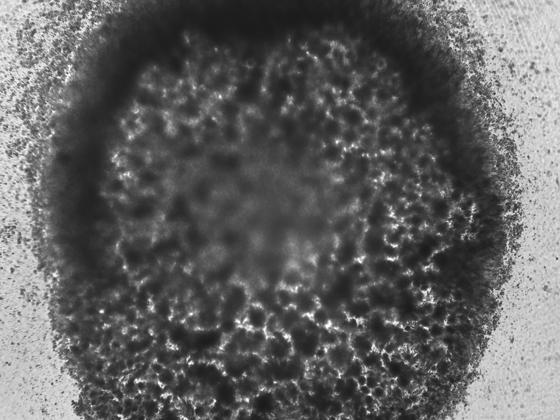
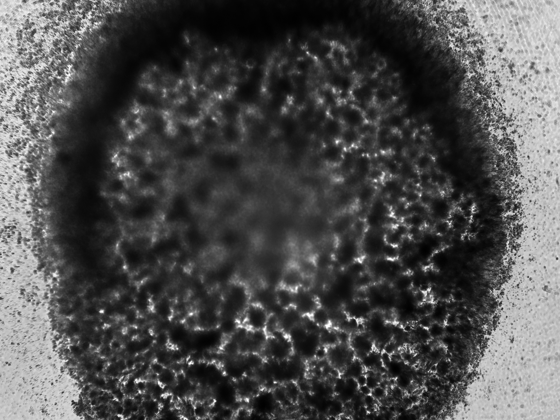
Contrast reflects the (submitted) thesis: revert to min-max Michelson
The thesis is submitted and fixed, so the site must use its contrast definition.
Revert the whole site back to frame_qc's michelson_contrast (Michelson on the
min-max normalised frame): Theme 01 contrast distribution + drift, the 51-frame
scatter, Theme 00 augmentation-coverage contrast, and Theme 01 quality-coverage
(contrast r=+0.05, focus +0.43, frag -0.30 from the canonical fig09 table).
Corpus contrast median back to 0.58.

To keep the shown contrast true to the picture, the real-frame widgets now
DISPLAY each frame min-max normalised to its own range (the same normalisation
the pipeline/thesis figures use), so the visible contrast equals the reported
thesis value; metrics are the canonical frame-QC values.

diff --git a/01_image_intensity_eda/index.html b/01_image_intensity_eda/index.html
@@ -86,4 +86,4 @@ function timecourse(id,d){const el=document.getElementById(id);if(!el)return;
     <a href="../THESIS_CITE_MAP.md">Cite map</a>
     <a href="https://github.com/DjamelZair" target="_blank" rel="noopener">GitHub</a>
   </nav>
-</header><main><a class="back" href="../index.html">&larr; All analysis themes</a><nav class="rq-tabs"><a href="../00_data_inventory/index.html" class="">Theme 00<span class="label">Data construction</span></a><a href="../01_image_intensity_eda/index.html" class="active">Theme 01<span class="label">Image EDA</span></a><a href="../02_segmentation/index.html" class="">Theme 02<span class="label">Segmentation</span></a><a href="../03_simulation_library/index.html" class="">Theme 03<span class="label">Sim library</span></a><a href="../04_separability_identifiability/index.html" class="">Theme 04<span class="label">Identifiability</span></a><a href="../05_drug_realdata/index.html" class="">Theme 05<span class="label">Drug / real data</span></a></nav><section class="bhero"><div class="bg" style="background-image:url('../assets/hero_spheroid_healthy.png')"></div><div class="radial"></div><div class="scrim"></div><div class="inner"><div class="meta"><span>Theme 01</span><span class="dot">&middot;</span><span>Data exploratory analysis</span><span class="dot">&middot;</span><span>Appendix A.1</span></div><h1 class="display">What the <span class="gold">data</span> <span class="it">demands</span>.</h1><p class="lede">The imaging reads size and gross shape robustly, but contrast, focus and fragmentation limit the finer boundary features, the same loss that later caps CPM-parameter identifiability.</p><p class="summary">Brightfield microscopy of patient-derived CLL spheroids is low-contrast, unevenly lit, and frequently fragmented under drug treatment. This analysis characterises what the images <strong>are</strong> (intensity, contrast, focus, illumination and fragmentation), then traces each property to the segmentation, metric and feature choice it drove downstream. The dataset inventory itself, who and how much, now lives in Theme 00.</p></div><div class="cap">Patient-derived CLL spheroid &middot; brightfield &middot; AI-drawn outline</div></section><section class="kpi-strip"><div class="kpi gold"><div class="lbl">Hand-annotated</div><div class="num numeric">51</div><div class="desc">About 0.05% of the corpus, the defining constraint.</div></div><div class="kpi gold"><div class="lbl">Contrast covered by aug.</div><div class="num">~100%</div><div class="desc">Offline augmented set (shared by all models).</div></div><div class="kpi"><div class="lbl">Focus covered by aug.</div><div class="num numeric">~91%</div><div class="desc">Laplacian-variance range spanned by augmentation.</div></div><div class="kpi"><div class="lbl">Real wells out-of-library</div><div class="num numeric">~90%</div><div class="desc">Why the thesis reports relative shifts, not absolutes.</div></div></section><div class="sec-h"><h2 class="display">First, what a real <span class="it">spheroid</span> looks like</h2><span class="right">actual frames from the corpus</span></div><section class="card"><p style="margin-bottom:1rem">Before the distributions, the concrete thing: real brightfield frames from the corpus, cropped around the spheroid, with the U-Net outline in gold. Click through a cohesive spheroid, one fragmenting under drug, and the hard cases (blurred, low-contrast, unevenly lit) that the rest of this page quantifies.</p><div class="iact" data-widget="examples" data-json="../assets/data/theme1_realframes.json"></div><div class="verdict">Every distribution below is a summary over thousands of frames like these. This is what the segmenter and the feature extraction actually operate on.<span class="small">The concrete object behind the numbers</span></div></section><div class="sec-h"><h2 class="display">A. What does the raw <span class="it">signal</span> look like?</h2><span class="right">why a learned segmenter, not thresholding</span></div><section class="card"><div class="card-h"><span class="ttl">Contrast vs fragment count</span><span class="sub">51 annotated frames</span></div><div class="chart-host" style="height:380px"><canvas id="t1_contrast"></canvas></div><p style="margin-top:.9rem;font-size:.94rem;line-height:1.6;color:var(--paper);opacity:.92">Contrast spans roughly 0.46 to 1.0 across the annotated set, and higher contrast couples to more fragments, because separating fragments exposes bright background between dark material.</p><div class="verdict">The wide, regime-dependent contrast (and the fragment-debris intensity overlap it creates) is why a single global threshold cannot work and a learned segmenter is needed, with contrast-conditional preprocessing in the classical baseline.<span class="small">Decision: learned segmenter + contrast-conditional preprocessing</span></div></section><script>scatter("t1_contrast",{"points": [{"x": 0.4613, "y": 14}, {"x": 0.5789, "y": 11}, {"x": 0.4956, "y": 3}, {"x": 0.4613, "y": 10}, {"x": 0.5839, "y": 8}, {"x": 0.5502, "y": 19}, {"x": 0.4697, "y": 1}, {"x": 0.453, "y": 11}, {"x": 0.4127, "y": 8}, {"x": 0.5269, "y": 1}, {"x": 0.5224, "y": 5}, {"x": 0.5224, "y": 2}, {"x": 0.5179, "y": 19}, {"x": 0.5789, "y": 11}, {"x": 0.5224, "y": 22}, {"x": 0.6346, "y": 2}, {"x": 0.4286, "y": 9}, {"x": 0.5361, "y": 1}, {"x": 0.5408, "y": 7}, {"x": 0.4655, "y": 1}, {"x": 0.6384, "y": 1}, {"x": 0.6162, "y": 1}, {"x": 0.6304, "y": 1}, {"x": 0.5957, "y": 3}, {"x": 0.6567, "y": 1}, {"x": 0.637, "y": 1}, {"x": 0.593, "y": 6}, {"x": 0.5709, "y": 14}, {"x": 0.6642, "y": 1}, {"x": 0.6458, "y": 1}, {"x": 0.6173, "y": 1}, {"x": 0.6564, "y": 14}, {"x": 0.6957, "y": 1}, {"x": 0.6451, "y": 8}, {"x": 0.7175, "y": 1}, {"x": 0.6271, "y": 23}, {"x": 0.954, "y": 40}, {"x": 0.9767, "y": 37}, {"x": 0.9767, "y": 19}, {"x": 0.9767, "y": 5}, {"x": 1.0, "y": 26}, {"x": 1.0, "y": 45}, {"x": 0.7993, "y": 1}, {"x": 0.9691, "y": 14}, {"x": 0.7958, "y": 7}, {"x": 0.9101, "y": 20}, {"x": 0.7708, "y": 43}, {"x": 0.6505, "y": 9}, {"x": 0.8545, "y": 2}, {"x": 1.0, "y": 26}, {"x": 0.8809, "y": 20}], "xlabel": "Michelson contrast", "ylabel": "fragments per image"});</script><section class="card"><div class="card-h"><span class="ttl">Focus spread across frames</span><span class="sub">Laplacian variance, log scale</span></div><div class="chart-host" style="height:380px"><canvas id="t1_focus"></canvas></div><p style="margin-top:.9rem;font-size:.94rem;line-height:1.6;color:var(--paper);opacity:.92">Brightfield focus spans about 0.9 orders of magnitude, and background illumination is uneven.</p><div class="verdict">Both inject noise into boundary-derived shape features, the exact perimeter and circularity features the CPM inference relies on, so inversion is restricted to features that survive segmentation noise.<span class="small">Decision: restrict inversion features</span></div></section><script>barV("t1_focus",{"labels": ["-2.0", "-1.9", "-1.8", "-1.7", "-1.7", "-1.6", "-1.5", "-1.4", "-1.4", "-1.3", "-1.2", "-1.1"], "datasets": [{"label": "frames", "data": [8, 3, 4, 2, 4, 5, 6, 4, 8, 4, 1, 2], "color": "#a37432"}], "xlabel": "log10 Laplacian variance (sharper to the right)", "ylabel": "frames", "dec": 0});</script><section class="card"><p style="margin-bottom:1rem">Pixel intensity across the real frames. The filled curve is the spheroid (foreground), the gold line the bright field (background): two overlapping modes. Switch to over-time to see frame brightness drift.</p><div class="iact" data-widget="qcdist" data-json="../assets/data/theme1_qc_intensity.json"></div><div class="verdict">The two intensity modes overlap once debris is present, so a single global threshold cannot separate object from background: a learned segmenter is needed.<span class="small">Decision: learned segmenter</span></div></section><section class="card"><p style="margin-bottom:1rem">Michelson contrast across the corpus, and how it drifts over the imaging time course. Contrast is wide and regime-dependent.</p><div class="iact" data-widget="qcdist" data-json="../assets/data/theme1_qc_contrast.json"></div><div class="verdict">Contrast is wide, regime-dependent and drifting, which is why the classical baseline needs contrast-conditional preprocessing and the production segmenter is learned.<span class="small">Decision: contrast-conditional preprocessing</span></div></section><section class="card"><p style="margin-bottom:1rem">Focus (Laplacian variance) on a log scale: a sharp main cluster and a blurred tail. Two independent focus measures agree, so the spread is real.</p><div class="iact" data-widget="qcdist" data-json="../assets/data/theme1_qc_focus.json"></div><div class="verdict">Out-of-focus frames blur the boundary-derived perimeter and circularity features, reinforcing the restriction of inversion to features that survive segmentation noise.<span class="small">Decision: restrict inversion features</span></div></section><section class="card"><p style="margin-bottom:1rem">Background illumination unevenness (coefficient of variation), and how it worsens over the time course as debris accumulates.</p><div class="iact" data-widget="qcdist" data-json="../assets/data/theme1_qc_illumination.json"></div><div class="verdict">Uneven background biases any intensity-based boundary, another reason the inversion leans on shape features that tolerate illumination drift.<span class="small">Decision: restrict inversion features</span></div></section><div class="sec-h"><h2 class="display">B. What is the object <span class="it">structure</span>?</h2><span class="right">the segmentation criterion: feature preservation</span></div><section class="card"><div class="card-h"><span class="ttl">Components per annotated image</span><span class="sub">how multi-object the masks are</span></div><div class="chart-host" style="height:340px"><canvas id="t1_ncomp"></canvas></div><p style="margin-top:.9rem;font-size:.94rem;line-height:1.6;color:var(--paper);opacity:.92">Most frames are not a single object (median 8 components; about 70% have more than one), and fragment sizes span four orders of magnitude, from the main body down to specks below 100 px.</p><div class="verdict">Standard Dice is dominated by the largest component and is blind to small fragments, so CC-Dice (equal weight per component) is the right metric, and post-processing keeps the largest connected component.<span class="small">Decision: CC-Dice + largest component</span></div></section><script>barV("t1_ncomp",{"labels": ["0", "1", "2", "3", "4", "5", "6", "7", "8", "9", "10", "11", "12", "13", "14", "15", "16", "17", "18", "19", "20", "21", "22", "23", "24", "25", "26", "27", "28", "29", "30", "31", "32", "33", "34", "35", "36", "37", "38", "39", "40"], "datasets": [{"label": "images", "data": [0, 15, 3, 2, 0, 2, 1, 2, 3, 2, 1, 3, 0, 0, 4, 0, 0, 0, 0, 3, 2, 0, 1, 1, 0, 0, 2, 0, 0, 0, 0, 0, 0, 0, 0, 0, 0, 1, 0, 0, 1], "color": "#a37432"}], "xlabel": "connected components in the image", "ylabel": "images", "dec": 0});</script><section class="card"><p style="margin-bottom:1rem">Three views of how fragmented the masks are: the count of connected components per frame, how much of the area the largest component holds, and how fragmentation rises over the time course.</p><div class="iact" data-widget="fragstruct" data-json="../assets/data/theme1_fragstruct.json"></div><div class="verdict">Because masks are multi-object but area-dominated, ordinary Dice would ignore the small fragments, so CC-Dice scores every component, and post-processing keeps the largest one.<span class="small">Decision: CC-Dice + largest component</span></div></section><div class="sec-h"><h2 class="display">C. A glimpse of the drug-response <span class="it">payoff</span></h2><span class="right">preview only &middot; full analysis in Theme 05</span></div><section class="card"><div class="card-h"><span class="ttl">Fragmentation by drug-mechanism class</span><span class="sub">median fragmentation index, classes with n&gt;=30</span></div><div class="chart-host" style="height:380px"><canvas id="t1_frag"></canvas></div><p style="margin-top:.9rem;font-size:.94rem;line-height:1.6;color:var(--paper);opacity:.92">A single teaser: Syk-inhibitor and CXCR4-antagonist wells fragment most; BTK, NF-kB and MALT1 inhibitors sit lowest. Counts are large, unequal and plate-level, so this is read as an association only. The full drug-response analysis, auto-measured trajectories, per-drug inferred shifts and the BCR axis, lives in <a href="../05_drug_realdata/index.html">Theme 05</a>.</p><div class="verdict">Previews the RQ3 drug-response story and shows the most drug-responsive classes are the hardest to segment, which is exactly why the segmenter is chosen on feature preservation rather than pixel overlap.<span class="small">Preview only: full drug panel in Theme 05</span></div></section><script>barH("t1_frag",{"labels": ["Syk i", "CXCR4 ant.", "STAT6 i", "MEKi", "research", "PI3Ki", "JAKi", "BTKi", "NF-kB i", "MALT1i"], "datasets": [{"label": "median fragmentation index", "data": [0.075, 0.0388, 0.0362, 0.0294, 0.0153, 0.0123, 0.0091, 0.0086, 0.0053, 0.0044], "color": "#c8a05c"}], "xlabel": "median fragmentation index", "dec": 3});</script><div class="sec-h"><h2 class="display">D. From image quality to library <span class="it">coverage</span></h2><span class="right">why the thesis reports relative shifts</span></div><section class="card"><p style="margin-bottom:1rem">Each dot is one real control well (n=48). Switch the image-quality metric to see which one predicts how far the well sits from its nearest synthetic spheroid: blur (focus) does, contrast does not, and more-fragmented wells sit slightly closer.</p><div class="iact" data-widget="qualcoverage" data-json="../assets/data/theme1_qualcoverage.json"></div><div class="verdict">Distance rises with blur (focus r=+0.43) but is flat against contrast (r=+0.03); more-fragmented wells sit slightly closer (r=-0.30), since the library's dispersed synthetic morphologies resemble broken spheroids. Either way, image quality shapes coverage, so the inference is reported as relative shifts rather than absolutes.<span class="small">Why relative shifts, not absolutes</span></div></section><section class="card"><div class="card-h"><span class="ttl">Sources (canonical, executable)</span></div><p>This reader consolidates and re-orders the data EDA into the thesis's decision order. Interactive charts are computed from the same local CSVs the notebooks use (<code>imaging_eda/cache/labelled_qc.csv</code>, <code>frame_qc.csv</code>, <code>rq1_segmentation/results/feature_validation/timecourse_full_features.csv</code>); raster panels are the on-brand figures from the thesis figure set. Open the source notebooks for the full code and every panel:</p><p><strong><code>thesis_submission/notebooks/RQ1_segmentation/01_data_eda.ipynb</code></strong> and <strong><code>imaging_eda/imaging_data_eda.ipynb</code></strong>.</p><p>An earlier broad notebook, <code>data/cll_spheroid_eda_complete.ipynb</code>, is catalogued as a referenced orphan in <code>_provenance_notes.md</code>.</p></section><div class="sec-h"><h2 class="display">A tunable <span class="it">quality bar</span></h2><span class="right">interactive, beyond the thesis</span></div><section class="card"><p style="margin-bottom:1rem">The thesis fixes quality thresholds once. Here you pick a quality metric and drag the bar to see exactly how many of the 12,480 frames survive.</p><div class="iact" data-widget="qcthreshold" data-json="../assets/data/theme1_qc_threshold.json"></div><div class="verdict">Turns the fixed QC cutoffs into something you can interrogate across the whole corpus.<span class="small">Beyond the thesis: live QC</span></div></section><div class="sec-h"><h2 class="display">Complete analysis <span class="it">index</span></h2><span class="right">every thesis analysis in this theme</span></div><section class="card"><div class="card-h"><span class="ttl">Each analysis, what it shows, its thesis label, and the result</span></div><div class="tablewrap"><table><thead><tr><th>Analysis</th><th>What it shows</th><th>Thesis label</th><th>Key result / status</th></tr></thead><tbody><tr><td>Full data EDA</td><td>Intensity, contrast, focus, fragmentation over 51 annotated frames</td><td>appendix:data:eda</td><td>Shown interactively above</td></tr></tbody></table></div></section><section class="stack-row"><div class="lbl"><span class="it">Sources</span> &middot; Theme 01</div><div class="stack-chips"><span class="chip gold">01_data_eda.ipynb</span><span class="chip gold">imaging_data_eda.ipynb</span><span class="chip">labelled_qc.csv</span><span class="chip">frame_qc.csv</span><span class="chip">timecourse_full_features.csv</span><span class="chip">Chart.js + scikit-image</span></div></section><section class="big-cta"><h3>Next: <span class="it">choosing the segmenter</span>.</h3><div class="links"><a class="cta primary" href="../02_segmentation/index.html">Theme 02 &middot; Segmentation &rarr;</a><a class="cta" href="../index.html">Back to index</a></div></section><script src="../assets/theme3_interactive.js" defer></script><footer>&copy; 2026 Djamel Zair &middot; Amsterdam &middot; <a href="https://github.com/DjamelZair" target="_blank" rel="noopener">GitHub</a></footer></main></body></html>
+</header><main><a class="back" href="../index.html">&larr; All analysis themes</a><nav class="rq-tabs"><a href="../00_data_inventory/index.html" class="">Theme 00<span class="label">Data construction</span></a><a href="../01_image_intensity_eda/index.html" class="active">Theme 01<span class="label">Image EDA</span></a><a href="../02_segmentation/index.html" class="">Theme 02<span class="label">Segmentation</span></a><a href="../03_simulation_library/index.html" class="">Theme 03<span class="label">Sim library</span></a><a href="../04_separability_identifiability/index.html" class="">Theme 04<span class="label">Identifiability</span></a><a href="../05_drug_realdata/index.html" class="">Theme 05<span class="label">Drug / real data</span></a></nav><section class="bhero"><div class="bg" style="background-image:url('../assets/hero_spheroid_healthy.png')"></div><div class="radial"></div><div class="scrim"></div><div class="inner"><div class="meta"><span>Theme 01</span><span class="dot">&middot;</span><span>Data exploratory analysis</span><span class="dot">&middot;</span><span>Appendix A.1</span></div><h1 class="display">What the <span class="gold">data</span> <span class="it">demands</span>.</h1><p class="lede">The imaging reads size and gross shape robustly, but contrast, focus and fragmentation limit the finer boundary features, the same loss that later caps CPM-parameter identifiability.</p><p class="summary">Brightfield microscopy of patient-derived CLL spheroids is low-contrast, unevenly lit, and frequently fragmented under drug treatment. This analysis characterises what the images <strong>are</strong> (intensity, contrast, focus, illumination and fragmentation), then traces each property to the segmentation, metric and feature choice it drove downstream. The dataset inventory itself, who and how much, now lives in Theme 00.</p></div><div class="cap">Patient-derived CLL spheroid &middot; brightfield &middot; AI-drawn outline</div></section><section class="kpi-strip"><div class="kpi gold"><div class="lbl">Hand-annotated</div><div class="num numeric">51</div><div class="desc">About 0.05% of the corpus, the defining constraint.</div></div><div class="kpi gold"><div class="lbl">Contrast covered by aug.</div><div class="num">~100%</div><div class="desc">Offline augmented set (shared by all models).</div></div><div class="kpi"><div class="lbl">Focus covered by aug.</div><div class="num numeric">~91%</div><div class="desc">Laplacian-variance range spanned by augmentation.</div></div><div class="kpi"><div class="lbl">Real wells out-of-library</div><div class="num numeric">~90%</div><div class="desc">Why the thesis reports relative shifts, not absolutes.</div></div></section><div class="sec-h"><h2 class="display">First, what a real <span class="it">spheroid</span> looks like</h2><span class="right">actual frames from the corpus</span></div><section class="card"><p style="margin-bottom:1rem">Before the distributions, the concrete thing: real brightfield frames from the corpus, cropped around the spheroid, with the U-Net outline in gold. Click through a cohesive spheroid, one fragmenting under drug, and the hard cases (blurred, low-contrast, unevenly lit) that the rest of this page quantifies.</p><div class="iact" data-widget="examples" data-json="../assets/data/theme1_realframes.json"></div><div class="verdict">Every distribution below is a summary over thousands of frames like these. This is what the segmenter and the feature extraction actually operate on.<span class="small">The concrete object behind the numbers</span></div></section><div class="sec-h"><h2 class="display">A. What does the raw <span class="it">signal</span> look like?</h2><span class="right">why a learned segmenter, not thresholding</span></div><section class="card"><div class="card-h"><span class="ttl">Contrast vs fragment count</span><span class="sub">51 annotated frames</span></div><div class="chart-host" style="height:380px"><canvas id="t1_contrast"></canvas></div><p style="margin-top:.9rem;font-size:.94rem;line-height:1.6;color:var(--paper);opacity:.92">Contrast spans roughly 0.46 to 1.0 across the annotated set, and higher contrast couples to more fragments, because separating fragments exposes bright background between dark material.</p><div class="verdict">The wide, regime-dependent contrast (and the fragment-debris intensity overlap it creates) is why a single global threshold cannot work and a learned segmenter is needed, with contrast-conditional preprocessing in the classical baseline.<span class="small">Decision: learned segmenter + contrast-conditional preprocessing</span></div></section><script>scatter("t1_contrast",{"points": [{"x": 0.4835, "y": 14}, {"x": 0.5899, "y": 11}, {"x": 0.5331, "y": 3}, {"x": 0.5314, "y": 10}, {"x": 0.6104, "y": 8}, {"x": 0.5639, "y": 19}, {"x": 0.4837, "y": 1}, {"x": 0.4636, "y": 11}, {"x": 0.4557, "y": 8}, {"x": 0.5714, "y": 1}, {"x": 0.6364, "y": 5}, {"x": 0.5556, "y": 2}, {"x": 0.5241, "y": 19}, {"x": 0.6339, "y": 11}, {"x": 0.5738, "y": 22}, {"x": 0.6781, "y": 2}, {"x": 0.4766, "y": 9}, {"x": 0.6054, "y": 1}, {"x": 0.5719, "y": 7}, {"x": 0.5364, "y": 1}, {"x": 0.6384, "y": 1}, {"x": 0.6162, "y": 1}, {"x": 0.6304, "y": 1}, {"x": 0.5957, "y": 3}, {"x": 0.6567, "y": 1}, {"x": 0.637, "y": 1}, {"x": 0.593, "y": 6}, {"x": 0.5709, "y": 14}, {"x": 0.6642, "y": 1}, {"x": 0.6458, "y": 1}, {"x": 0.6173, "y": 1}, {"x": 0.6564, "y": 14}, {"x": 0.6957, "y": 1}, {"x": 0.6451, "y": 8}, {"x": 0.7175, "y": 1}, {"x": 0.6271, "y": 23}, {"x": 0.954, "y": 40}, {"x": 0.9767, "y": 37}, {"x": 0.9767, "y": 19}, {"x": 0.9767, "y": 5}, {"x": 1.0, "y": 26}, {"x": 1.0, "y": 45}, {"x": 0.7993, "y": 1}, {"x": 0.9691, "y": 14}, {"x": 0.7958, "y": 7}, {"x": 0.9101, "y": 20}, {"x": 0.7708, "y": 43}, {"x": 0.6505, "y": 9}, {"x": 0.8545, "y": 2}, {"x": 1.0, "y": 26}, {"x": 0.8809, "y": 20}], "xlabel": "Michelson contrast", "ylabel": "fragments per image"});</script><section class="card"><div class="card-h"><span class="ttl">Focus spread across frames</span><span class="sub">Laplacian variance, log scale</span></div><div class="chart-host" style="height:380px"><canvas id="t1_focus"></canvas></div><p style="margin-top:.9rem;font-size:.94rem;line-height:1.6;color:var(--paper);opacity:.92">Brightfield focus spans about 0.9 orders of magnitude, and background illumination is uneven.</p><div class="verdict">Both inject noise into boundary-derived shape features, the exact perimeter and circularity features the CPM inference relies on, so inversion is restricted to features that survive segmentation noise.<span class="small">Decision: restrict inversion features</span></div></section><script>barV("t1_focus",{"labels": ["-2.0", "-1.9", "-1.8", "-1.7", "-1.7", "-1.6", "-1.5", "-1.4", "-1.4", "-1.3", "-1.2", "-1.1"], "datasets": [{"label": "frames", "data": [8, 3, 4, 2, 4, 5, 6, 4, 8, 4, 1, 2], "color": "#a37432"}], "xlabel": "log10 Laplacian variance (sharper to the right)", "ylabel": "frames", "dec": 0});</script><section class="card"><p style="margin-bottom:1rem">Pixel intensity across the real frames. The filled curve is the spheroid (foreground), the gold line the bright field (background): two overlapping modes. Switch to over-time to see frame brightness drift.</p><div class="iact" data-widget="qcdist" data-json="../assets/data/theme1_qc_intensity.json"></div><div class="verdict">The two intensity modes overlap once debris is present, so a single global threshold cannot separate object from background: a learned segmenter is needed.<span class="small">Decision: learned segmenter</span></div></section><section class="card"><p style="margin-bottom:1rem">Michelson contrast across the corpus, and how it drifts over the imaging time course. Contrast is wide and regime-dependent.</p><div class="iact" data-widget="qcdist" data-json="../assets/data/theme1_qc_contrast.json"></div><div class="verdict">Contrast is wide, regime-dependent and drifting, which is why the classical baseline needs contrast-conditional preprocessing and the production segmenter is learned.<span class="small">Decision: contrast-conditional preprocessing</span></div></section><section class="card"><p style="margin-bottom:1rem">Focus (Laplacian variance) on a log scale: a sharp main cluster and a blurred tail. Two independent focus measures agree, so the spread is real.</p><div class="iact" data-widget="qcdist" data-json="../assets/data/theme1_qc_focus.json"></div><div class="verdict">Out-of-focus frames blur the boundary-derived perimeter and circularity features, reinforcing the restriction of inversion to features that survive segmentation noise.<span class="small">Decision: restrict inversion features</span></div></section><section class="card"><p style="margin-bottom:1rem">Background illumination unevenness (coefficient of variation), and how it worsens over the time course as debris accumulates.</p><div class="iact" data-widget="qcdist" data-json="../assets/data/theme1_qc_illumination.json"></div><div class="verdict">Uneven background biases any intensity-based boundary, another reason the inversion leans on shape features that tolerate illumination drift.<span class="small">Decision: restrict inversion features</span></div></section><div class="sec-h"><h2 class="display">B. What is the object <span class="it">structure</span>?</h2><span class="right">the segmentation criterion: feature preservation</span></div><section class="card"><div class="card-h"><span class="ttl">Components per annotated image</span><span class="sub">how multi-object the masks are</span></div><div class="chart-host" style="height:340px"><canvas id="t1_ncomp"></canvas></div><p style="margin-top:.9rem;font-size:.94rem;line-height:1.6;color:var(--paper);opacity:.92">Most frames are not a single object (median 8 components; about 70% have more than one), and fragment sizes span four orders of magnitude, from the main body down to specks below 100 px.</p><div class="verdict">Standard Dice is dominated by the largest component and is blind to small fragments, so CC-Dice (equal weight per component) is the right metric, and post-processing keeps the largest connected component.<span class="small">Decision: CC-Dice + largest component</span></div></section><script>barV("t1_ncomp",{"labels": ["0", "1", "2", "3", "4", "5", "6", "7", "8", "9", "10", "11", "12", "13", "14", "15", "16", "17", "18", "19", "20", "21", "22", "23", "24", "25", "26", "27", "28", "29", "30", "31", "32", "33", "34", "35", "36", "37", "38", "39", "40"], "datasets": [{"label": "images", "data": [0, 15, 3, 2, 0, 2, 1, 2, 3, 2, 1, 3, 0, 0, 4, 0, 0, 0, 0, 3, 2, 0, 1, 1, 0, 0, 2, 0, 0, 0, 0, 0, 0, 0, 0, 0, 0, 1, 0, 0, 1], "color": "#a37432"}], "xlabel": "connected components in the image", "ylabel": "images", "dec": 0});</script><section class="card"><p style="margin-bottom:1rem">Three views of how fragmented the masks are: the count of connected components per frame, how much of the area the largest component holds, and how fragmentation rises over the time course.</p><div class="iact" data-widget="fragstruct" data-json="../assets/data/theme1_fragstruct.json"></div><div class="verdict">Because masks are multi-object but area-dominated, ordinary Dice would ignore the small fragments, so CC-Dice scores every component, and post-processing keeps the largest one.<span class="small">Decision: CC-Dice + largest component</span></div></section><div class="sec-h"><h2 class="display">C. A glimpse of the drug-response <span class="it">payoff</span></h2><span class="right">preview only &middot; full analysis in Theme 05</span></div><section class="card"><div class="card-h"><span class="ttl">Fragmentation by drug-mechanism class</span><span class="sub">median fragmentation index, classes with n&gt;=30</span></div><div class="chart-host" style="height:380px"><canvas id="t1_frag"></canvas></div><p style="margin-top:.9rem;font-size:.94rem;line-height:1.6;color:var(--paper);opacity:.92">A single teaser: Syk-inhibitor and CXCR4-antagonist wells fragment most; BTK, NF-kB and MALT1 inhibitors sit lowest. Counts are large, unequal and plate-level, so this is read as an association only. The full drug-response analysis, auto-measured trajectories, per-drug inferred shifts and the BCR axis, lives in <a href="../05_drug_realdata/index.html">Theme 05</a>.</p><div class="verdict">Previews the RQ3 drug-response story and shows the most drug-responsive classes are the hardest to segment, which is exactly why the segmenter is chosen on feature preservation rather than pixel overlap.<span class="small">Preview only: full drug panel in Theme 05</span></div></section><script>barH("t1_frag",{"labels": ["Syk i", "CXCR4 ant.", "STAT6 i", "MEKi", "research", "PI3Ki", "JAKi", "BTKi", "NF-kB i", "MALT1i"], "datasets": [{"label": "median fragmentation index", "data": [0.075, 0.0388, 0.0362, 0.0294, 0.0153, 0.0123, 0.0091, 0.0086, 0.0053, 0.0044], "color": "#c8a05c"}], "xlabel": "median fragmentation index", "dec": 3});</script><div class="sec-h"><h2 class="display">D. From image quality to library <span class="it">coverage</span></h2><span class="right">why the thesis reports relative shifts</span></div><section class="card"><p style="margin-bottom:1rem">Each dot is one real control well (n=48). Switch the image-quality metric to see which one predicts how far the well sits from its nearest synthetic spheroid: blur (focus) does, contrast does not, and more-fragmented wells sit slightly closer.</p><div class="iact" data-widget="qualcoverage" data-json="../assets/data/theme1_qualcoverage.json"></div><div class="verdict">Distance rises with blur (focus r=+0.43) but is flat against contrast (r=+0.05); more-fragmented wells sit slightly closer (r=-0.30), since the library's dispersed synthetic morphologies resemble broken spheroids. Either way, image quality shapes coverage, so the inference is reported as relative shifts rather than absolutes.<span class="small">Why relative shifts, not absolutes</span></div></section><section class="card"><div class="card-h"><span class="ttl">Sources (canonical, executable)</span></div><p>This reader consolidates and re-orders the data EDA into the thesis's decision order. Interactive charts are computed from the same local CSVs the notebooks use (<code>imaging_eda/cache/labelled_qc.csv</code>, <code>frame_qc.csv</code>, <code>rq1_segmentation/results/feature_validation/timecourse_full_features.csv</code>); raster panels are the on-brand figures from the thesis figure set. Open the source notebooks for the full code and every panel:</p><p><strong><code>thesis_submission/notebooks/RQ1_segmentation/01_data_eda.ipynb</code></strong> and <strong><code>imaging_eda/imaging_data_eda.ipynb</code></strong>.</p><p>An earlier broad notebook, <code>data/cll_spheroid_eda_complete.ipynb</code>, is catalogued as a referenced orphan in <code>_provenance_notes.md</code>.</p></section><div class="sec-h"><h2 class="display">A tunable <span class="it">quality bar</span></h2><span class="right">interactive, beyond the thesis</span></div><section class="card"><p style="margin-bottom:1rem">The thesis fixes quality thresholds once. Here you pick a quality metric and drag the bar to see exactly how many of the 12,480 frames survive.</p><div class="iact" data-widget="qcthreshold" data-json="../assets/data/theme1_qc_threshold.json"></div><div class="verdict">Turns the fixed QC cutoffs into something you can interrogate across the whole corpus.<span class="small">Beyond the thesis: live QC</span></div></section><div class="sec-h"><h2 class="display">Complete analysis <span class="it">index</span></h2><span class="right">every thesis analysis in this theme</span></div><section class="card"><div class="card-h"><span class="ttl">Each analysis, what it shows, its thesis label, and the result</span></div><div class="tablewrap"><table><thead><tr><th>Analysis</th><th>What it shows</th><th>Thesis label</th><th>Key result / status</th></tr></thead><tbody><tr><td>Full data EDA</td><td>Intensity, contrast, focus, fragmentation over 51 annotated frames</td><td>appendix:data:eda</td><td>Shown interactively above</td></tr></tbody></table></div></section><section class="stack-row"><div class="lbl"><span class="it">Sources</span> &middot; Theme 01</div><div class="stack-chips"><span class="chip gold">01_data_eda.ipynb</span><span class="chip gold">imaging_data_eda.ipynb</span><span class="chip">labelled_qc.csv</span><span class="chip">frame_qc.csv</span><span class="chip">timecourse_full_features.csv</span><span class="chip">Chart.js + scikit-image</span></div></section><section class="big-cta"><h3>Next: <span class="it">choosing the segmenter</span>.</h3><div class="links"><a class="cta primary" href="../02_segmentation/index.html">Theme 02 &middot; Segmentation &rarr;</a><a class="cta" href="../index.html">Back to index</a></div></section><script src="../assets/theme3_interactive.js" defer></script><footer>&copy; 2026 Djamel Zair &middot; Amsterdam &middot; <a href="https://github.com/DjamelZair" target="_blank" rel="noopener">GitHub</a></footer></main></body></html>

diff --git a/assets/theme3_interactive.js b/assets/theme3_interactive.js
@@ -953,7 +953,7 @@
     drugmech: "Click a drug-mechanism class to read what it targets, how it acts on a CLL cell, and the effect it is expected to have on the spheroid. The animation shows that effect: cells spread apart (looser) or pull together (more compact) relative to the dashed unstimulated baseline, driven by the inferred cell-cell adhesion shift for that class. Remember the shift is a relative, inferred parameter, not a physical measurement, and only the MEK inhibitor clears the significance heuristic (on just four wells).",
     qcdist: "The filled curve is the distribution of this image-quality metric across the real frames (for intensity, the gold line adds the bright background so you see the two modes). Switch to 'over time' to see the metric's median and interquartile range drift across the imaging time course. The readout states the finding and the method decision it drove.",
     fragstruct: "Three views of how fragmented the segmentation masks are. 'Fragment count' is the distribution of connected components per frame (most frames are multi-object); 'largest-component area' shows that despite the fragments, one component holds nearly all the area; 'over time' shows fragmentation rising across the time course. Together these motivate scoring with CC-Dice and keeping the largest component.",
-    qualcoverage: "Each dot is one real control well (n=48), placed by an image-quality metric against how far the well sits from its nearest synthetic spheroid in morphology space. Switch the metric to see which quality predicts distance: focus/blur does (r=+0.43), contrast does not (r=+0.03), and more-fragmented wells sit slightly closer (r=-0.30). Clay dots are beyond the p95 distance (out of library); the gold line is the linear trend.",
+    qualcoverage: "Each dot is one real control well (n=48), placed by an image-quality metric against how far the well sits from its nearest synthetic spheroid in morphology space. Switch the metric to see which quality predicts distance: focus/blur does (r=+0.43), contrast does not (r=+0.05), and more-fragmented wells sit slightly closer (r=-0.30). Clay dots are beyond the p95 distance (out of library); the gold line is the linear trend.",
     sobolgap: "For each CPM parameter, the solid gold bar is its direct effect on cluster area (Sobol first-order S1) and the sky extension is its interactions with the other parameters, up to the total effect (ST). A large gap means the parameter acts mostly through interactions, which is what limits how cleanly it can be read back from morphology.",
     drugstrip: "Pick a drug and a day to see the AI-segmented spheroid (cherry outline) and its shape numbers at that timepoint. High-dose trametinib disintegrates the cluster (area collapses about eightfold); PD098060 keeps it cohesive but contracts it inward, with solidity rising. Two clearly separable drug signatures.",
   };

diff --git a/build_site.py b/build_site.py
@@ -459,7 +459,7 @@ THEME1 = [
          intro="Each dot is one real control well (n=48). Switch the image-quality metric to see which "
                "one predicts how far the well sits from its nearest synthetic spheroid: blur (focus) "
                "does, contrast does not, and more-fragmented wells sit slightly closer.",
-         informs="Distance rises with blur (focus r=+0.43) but is flat against contrast (r=+0.03); "
+         informs="Distance rises with blur (focus r=+0.43) but is flat against contrast (r=+0.05); "
                  "more-fragmented wells sit slightly closer (r=-0.30), since the library's dispersed "
                  "synthetic morphologies resemble broken spheroids. Either way, image quality shapes "
                  "coverage, so the inference is reported as relative shifts rather than absolutes.",
